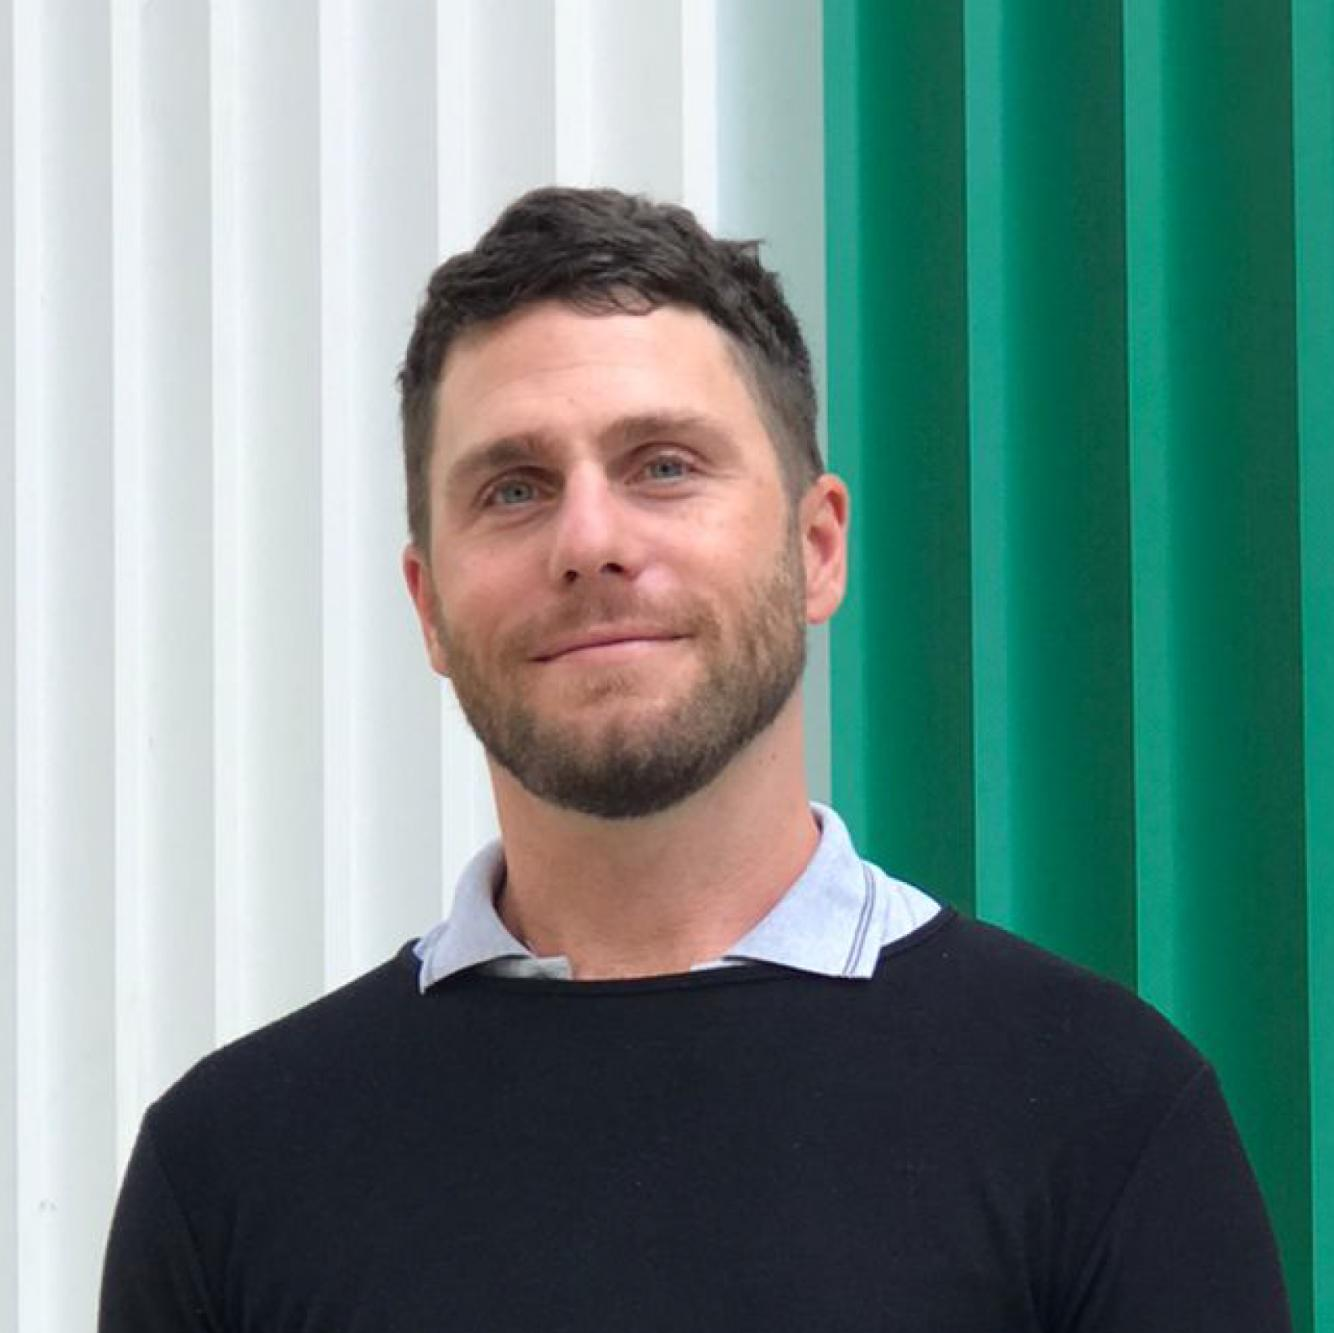
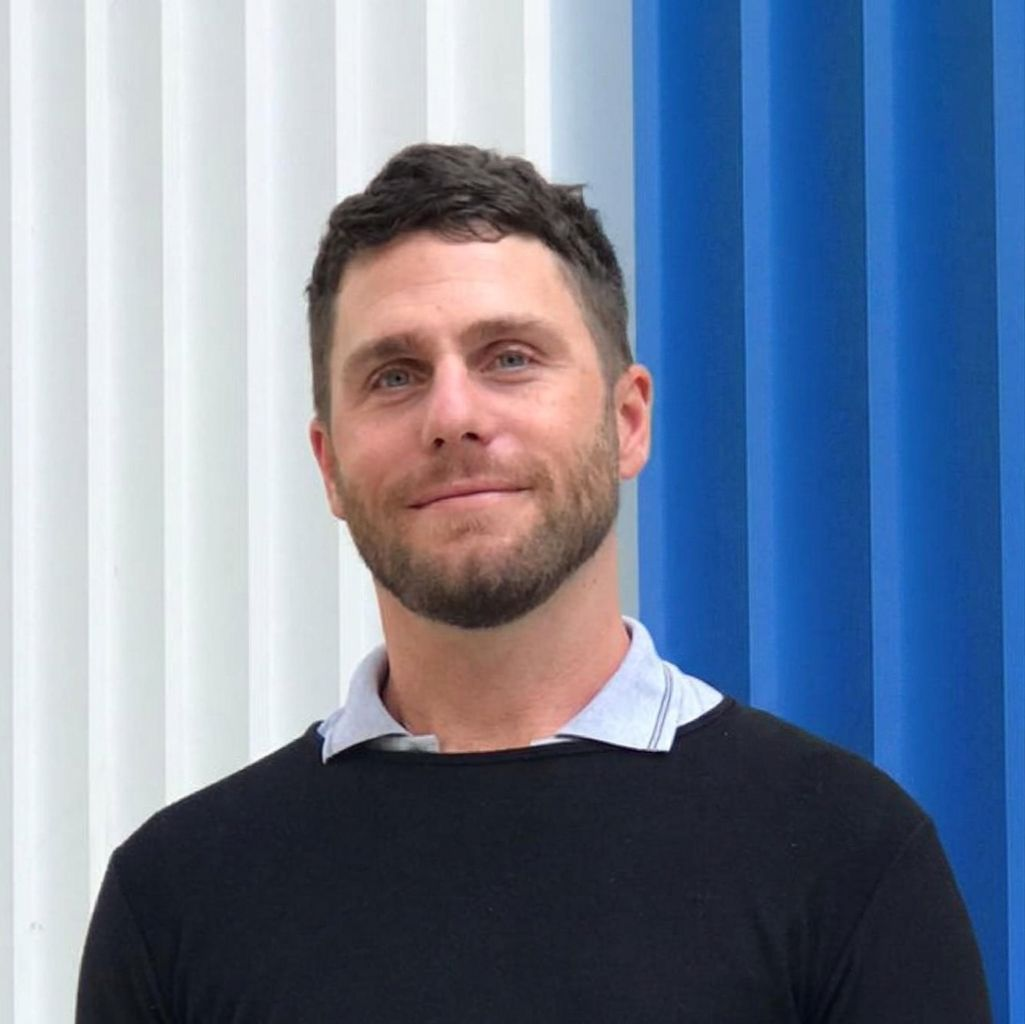
feat: hero de Home a pantalla completa con foto de portada
Reemplaza el layout de dos columnas (texto + foto en frame) por un
hero de banda completa: portada.jpg como background-image de toda la
seccion, texto superpuesto a la izquierda con un degrade blanco que
se desvanece hacia la derecha para garantizar legibilidad sobre
cualquier parte de la foto. En mobile el degrade pasa a vertical
(arriba hacia abajo) ya que el recorte de una foto panoramica en un
viewport angosto centra al sujeto, no el espacio vacio.

Se optimizan portada.jpg (517KB -> 71KB) y perfil.jpg, la foto nueva
de Info (461KB -> 71KB), mismo criterio de compresion que el logo UBA.

Changed region(s): [[0.5932, 0.0, 1.0, 1.0]]

diff --git a/src/styles/_home.scss b/src/styles/_home.scss
@@ -47,6 +47,63 @@
   }
 }
 
+.hero-banner {
+  position: relative;
+  display: flex;
+  align-items: center;
+  min-height: 75vh;
+  background-image: url("/img/portada.jpg");
+  background-size: cover;
+  background-position: center right;
+  overflow: hidden;
+}
+
+.hero-banner::before {
+  content: "";
+  position: absolute;
+  inset: 0;
+  background: linear-gradient(
+    90deg,
+    rgba(255, 255, 255, 0.97) 0%,
+    rgba(255, 255, 255, 0.92) 30%,
+    rgba(255, 255, 255, 0.55) 50%,
+    rgba(255, 255, 255, 0) 68%
+  );
+}
+
+.hero-banner-content {
+  position: relative;
+  z-index: 1;
+}
+
+.hero-banner-copy {
+  max-width: 460px;
+  padding: 2.5rem 0;
+}
+
+@media (max-width: 991.98px) {
+  .hero-banner {
+    min-height: 85vh;
+    background-position: top center;
+    align-items: flex-start;
+  }
+
+  .hero-banner::before {
+    background: linear-gradient(
+      180deg,
+      rgba(255, 255, 255, 0.97) 0%,
+      rgba(255, 255, 255, 0.95) 40%,
+      rgba(255, 255, 255, 0.65) 65%,
+      rgba(255, 255, 255, 0.2) 100%
+    );
+  }
+
+  .hero-banner-copy {
+    max-width: 100%;
+    padding: 1.5rem 0;
+  }
+}
+
 .video-vertical-frame {
   width: 100%;
   max-width: 320px;

diff --git a/src/pages/Home.jsx b/src/pages/Home.jsx
@@ -50,10 +50,10 @@ export const Home = () => {
         <meta property="og:url" content="https://psicologosanjorge.com.ar/" />
       </Helmet>
 
-      <section className="container-fluid section-glow hero-top-offset pb-5">
-        <div className="row align-items-center g-5">
-          <div className="col-12 col-lg-6 order-2 order-lg-1">
-            <Reveal className="hero-copy">
+      <section className="hero-banner hero-top-offset">
+        <div className="container-fluid">
+          <div className="hero-banner-content">
+            <Reveal className="hero-banner-copy">
               <h1 className="hero-title mb-2">Lic. Juan Pablo Sanjorge</h1>
               <p className="hero-subtitle mb-4">Psicólogo Clínico</p>
 
@@ -81,12 +81,6 @@ export const Home = () => {
                   <BsWhatsapp /> WhatsApp
                 </a>
               </div>
-            </Reveal>
-          </div>
-
-          <div className="col-12 col-lg-6 order-1 order-lg-2">
-            <Reveal delay={0.15} className="hero-portrait-frame">
-              <img src="/img/perfil.jpg" alt="Juan Pablo Sanjorge, psicólogo" />
             </Reveal>
           </div>
         </div>
